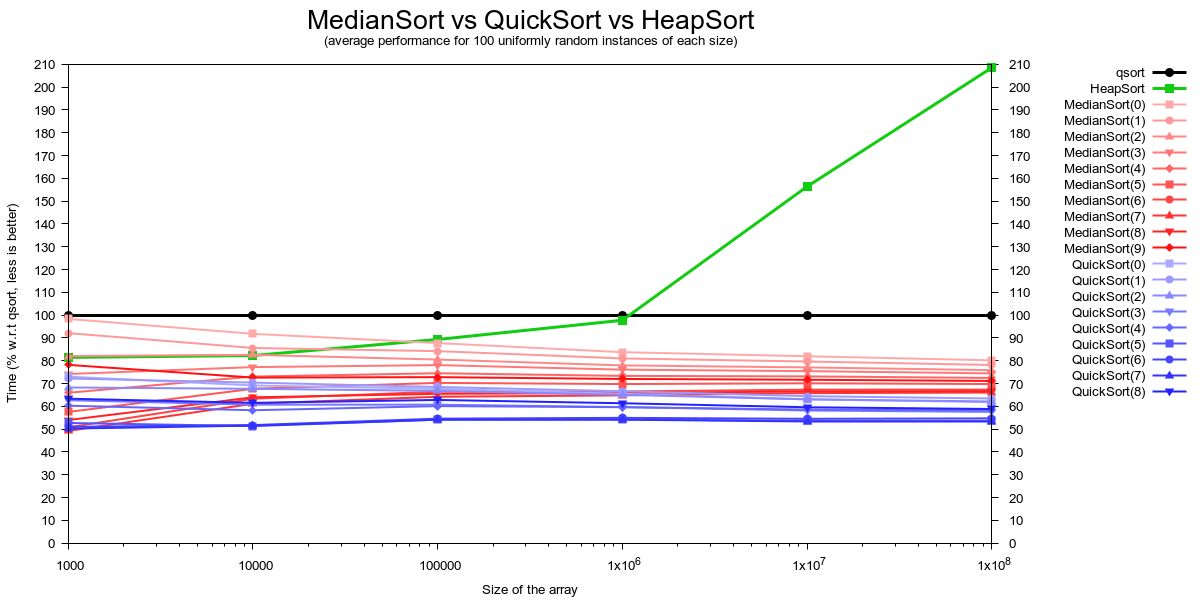
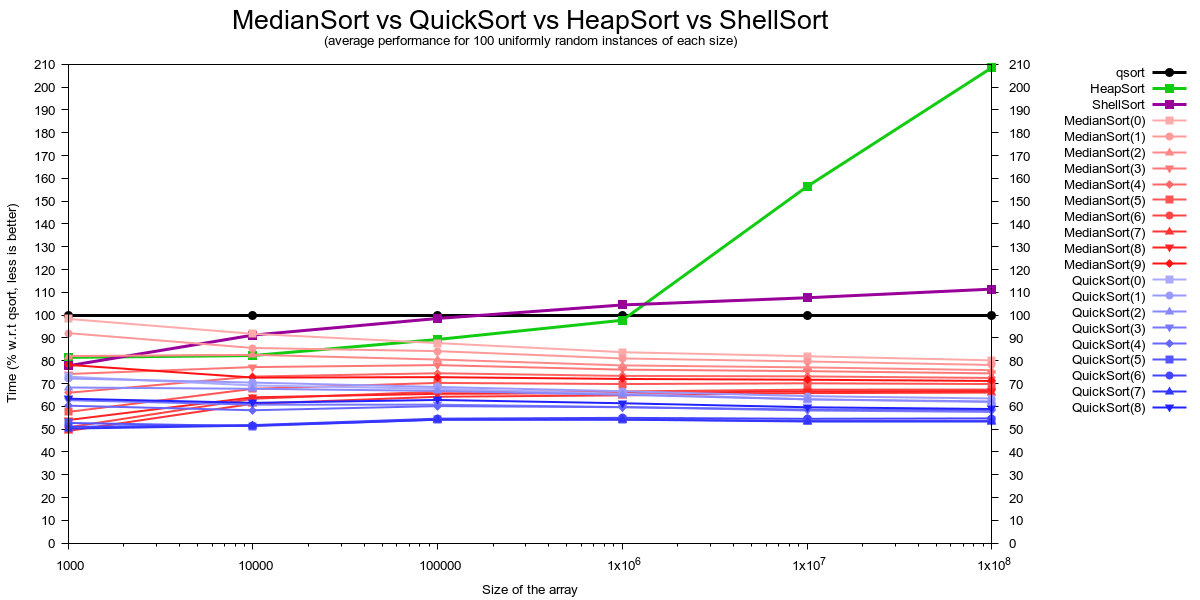
Add files via upload

diff --git a/MedianSort.c b/MedianSort.c
@@ -171,6 +171,52 @@
     }                                                                           \
                                                                                 \
 
+#define IMPORT_SHELL_SORT(type_t, less_than)                                    \
+                                                                                \
+    static void shell_sort(type_t *A, const size_t length) {                    \
+                                                                                \
+        /* The first 54 gaps of the Tokuda sequence: ceil((9*((9/4)^n)-4)/5) */ \
+        /* Enough for 64 bit machines. Pre-computed for efficiency.          */ \
+        size_t gaps[54] = {1u, 4u, 9u, 20u, 46u, 103u, 233u, 525u, 1182u,       \
+                           2660u, 5985u, 13467u, 30301u, 68178u, 153401u,       \
+                           345152u, 776591u, 1747331u, 3931496u, 8845866u,      \
+                           19903198u, 44782196u, 100759940u, 226709866u,        \
+                           510097200u, 1147718700u, 2582367076u, 5810325920u,   \
+                           13073233321u, 29414774973u, 66183243690u,            \
+                           148912298303u, 335052671183u, 753868510162u,         \
+                           1696204147864u, 3816459332694u, 8587033498562u,      \
+                           19320825371765u, 43471857086472u, 97811678444563u,   \
+                           220076276500268u, 495171622125603u,                  \
+                           1114136149782608u, 2506806337010868u,                \
+                           5640314258274455u, 12690707081117524u,               \
+                           28554090932514432u, 64246704598157464u,              \
+                           144555085345854304u, 325248942028172160u,            \
+                           731810119563387392u, 1646572769017621760u,           \
+                           3704788730289648640u, 8335774643151711232u };        \
+                                                                                \
+        size_t i, l, r, gap;                                                    \
+        type_t temp;                                                            \
+                                                                                \
+        /* Find the starting gap */                                             \
+        for (i = 1; i < 54 && gaps[i] < length; ++i);                           \
+                                                                                \
+        /* Shell Sort */                                                        \
+        do {gap = gaps[--i];                                                    \
+            for (r = gap; r < length; ++r) {                                    \
+                temp = A[r];                                                    \
+                l    = r;                                                       \
+                while (less_than(temp, A[l-gap])) {                             \
+                    A[l] = A[l-gap];                                            \
+                    l   -= gap;                                                 \
+                    if (l < gap) { break; }                                     \
+                }                                                               \
+                A[l] = temp;                                                    \
+            }                                                                   \
+        } while (gap > 1);                                                      \
+    }                                                                           \
+                                                                                \
+
+
 /** AUXILIARY FUNCTIONS *************************************************** **/
 
 int comp_int(const void *i, const void *j) {
@@ -215,6 +261,8 @@ IMPORT_QUICK_SORT(int, LESS_THAN, 9, _9)
 
 IMPORT_HEAP_SORT(int, LESS_THAN)
 
+IMPORT_SHELL_SORT(int, LESS_THAN)
+
 /** MAIN ****************************************************************** **/
 
 int main (void) {
@@ -225,7 +273,7 @@ int main (void) {
     const size_t repeat = 100;
     const size_t steps  = 6;
 
-    double T[22][steps];
+    double T[23][steps];
     size_t S[steps];
     for (step = 1, S[0] = 1000; step < steps; S[step] = S[step-1]*10, step++);
 
@@ -237,7 +285,7 @@ int main (void) {
     for (step = 0, size = 10; step < steps; step++) {
 
         size = S[step];
-        for (i = 0; i < 22; i++) { T[i][step] = 0.0; }
+        for (i = 0; i < 23; i++) { T[i][step] = 0.0; }
 
         fprintf(stderr, "\nSORTING %zu RANDOM INTS IN THE RANGE [0,%zu)\n", size, size);
 
@@ -261,6 +309,14 @@ int main (void) {
             crono = clock();
             heap_sort(array, size);
             T[21][step] += ((double) (clock() - crono)) / CLOCKS_PER_SEC;
+            for (i = 0; i < size; i++) { assert(array[i] == sorted[i]); }
+
+            /*** TEST SHELL SORT *********************************************/
+
+            for (i = 0; i < size; i++) { array[i] = random[i]; }
+            crono = clock();
+            shell_sort(array, size);
+            T[22][step] += ((double) (clock() - crono)) / CLOCKS_PER_SEC;
             for (i = 0; i < size; i++) { assert(array[i] == sorted[i]); }
 
             /*** TEST MEDIAN SORT ********************************************/
@@ -392,6 +448,7 @@ int main (void) {
         }
 
         fprintf(stderr, "\n    heap_sort   vs qsort = %+.2f %%\n", 100.0 * (T[21][step]-T[20][step]) / T[20][step]);
+        fprintf(stderr,   "   shell_sort   vs qsort = %+.2f %%\n", 100.0 * (T[22][step]-T[20][step]) / T[20][step]);
         fprintf(stderr, "\n  median_sort_0 vs qsort = %+.2f %%\n", 100.0 * (T[ 0][step]-T[20][step]) / T[20][step]);
         fprintf(stderr,   "   quick_sort_0 vs qsort = %+.2f %%\n", 100.0 * (T[10][step]-T[20][step]) / T[20][step]);
         fprintf(stderr, "\n  median_sort_1 vs qsort = %+.2f %%\n", 100.0 * (T[ 1][step]-T[20][step]) / T[20][step]);
@@ -417,9 +474,11 @@ int main (void) {
     printf("Size qsort HeapSort");
     for (i = 0; i < 10; i++) { printf(" MedianSort(%zu)", i); }
     for (i = 0; i < 10; i++) { printf(" QuickSort(%zu)", i);  }
+    printf(" ShellSort");
     for (step = 0; step < steps; step++) {
         printf("\n%zu %.2f %.2f", S[step], 100.0, 100.0 * T[21][step] / T[20][step]);
         for (i =  0; i < 20; i++) { printf(" %.2f", 100.0 * T[i][step] / T[20][step]); }
+        printf(" %.2f", 100.0 * T[22][step] / T[20][step]);
     }
 
     free(buffer);

diff --git a/README.md b/README.md
@@ -154,9 +154,10 @@ the `qsort` function of C. In both cases I've tested different values of `power`
 (including `0`, which avoids using `insertion_sort` at all).
 
 For the sake of completeness, I've also plotted the performance of my own
-implementation of `heap_sort`, often considered as a _fail proof_ sorting
-algorithm, but way slower than the alternatives for large arrays because of
-its inherent poor cache performance.
+implementation of `heap_sort` and `shell_sort`, two commonly used sorting
+algorithms that also require `O(1)` additional space in the strict sense.
+As you can see, both are slower than `qsort` for large arrays (this is
+specially true for `heap_sort` because of its inherent bad caché performance).
 
 Trying to plot everything at once may be a little bit confusing:
 
